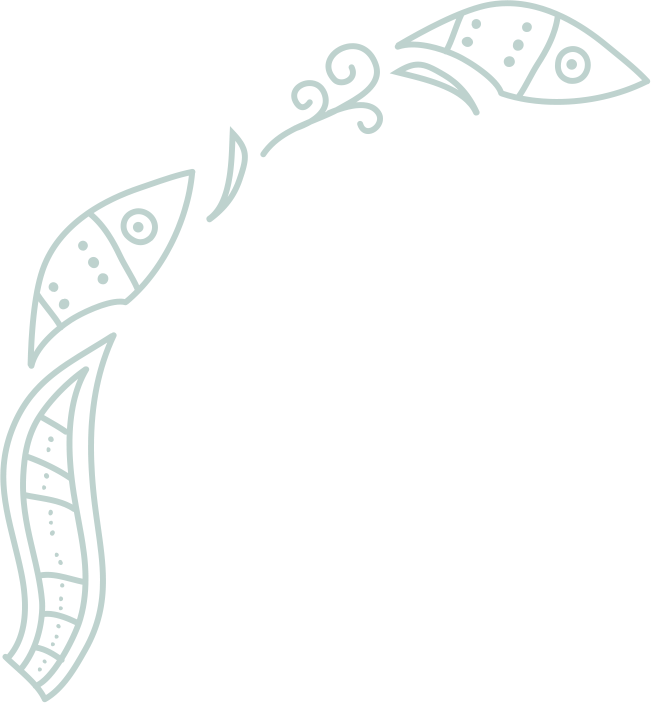
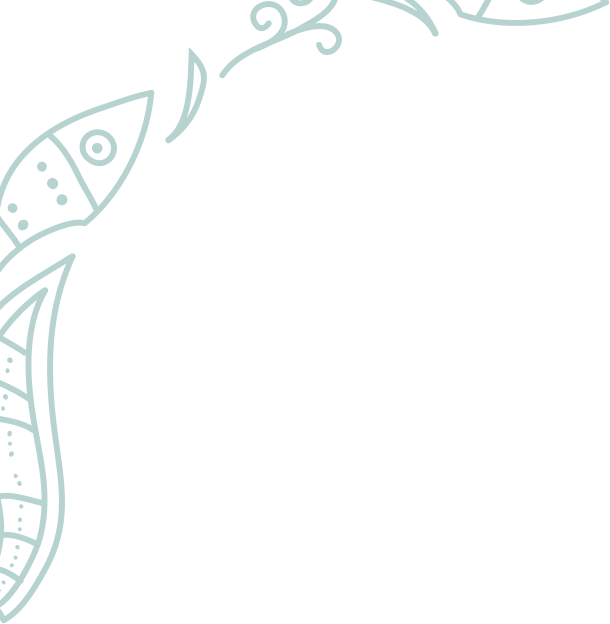
new commit

Changed region(s): [[0.0, 0.0, 1.0, 1.0]]

diff --git a/BT_WEB.html b/BT_WEB.html
@@ -28,9 +28,9 @@
                 
                 </div>
                 <div class="text-body">
-                    <center>Lorem ipsum dolor sit amet, consectetur adipiscing elit.
-                    <br>Donec fringilla neque euismod volutpat cursus.Vestibu
-                    <br>lumac pretium orci,</center> </div>
+                    <center>Lorem ipsum dolor sit amet, consectetur adip
+                     <br>   iscing elit. Donec fringilla neque euismod volut
+                  <br>  pat cursus.Vestibulumac pretium orci,</center> </div>
             
                 <div class="text-footer"><center>JOIN NOW</center></div>
                 <div class="image2">
@@ -69,7 +69,7 @@
             </div>
 
             <div class="page3">
-                    <!-- <div class="shape-page3"><img src="shape-page3.png"></div> -->
+                    <div class="shape-page3"><img src="img/shape-page3.png"></div>
                     <div class="text-title-page3">OUR STATS</div>
                     <div class="text-body-page3">    Lorem ipsum dolor sit amet, consectetur adipisc
                         <br> ing elit. Vivamus lacinia odio vitae vestibulum ves
@@ -103,6 +103,7 @@
                            <br>  odio vitae vestibulum vestibulum. </div>
                            <div class="button-page5">READ MORE</div>
                     </div>
+                     <div class="shape-page5"><!--<img src="img/Shape-Page5.png" alt="">--></div> 
             </div>
             <div class="page6">
                 <div id="text-title-page6">Pricing</div>
@@ -145,9 +146,65 @@
                    <br>  vitae vestibulum vestibulum. </div>
                    <div class="text-footer-page7">TRAINER DEVANDRA</div>
             </div>
+            <div class="page8">
+                <div class="text-title-page8">DONT MISS OUR UPDATE</div>
+                <div class="text-body-page8">Lorem ipsum dolor sit amet, consectetur adipisc
+                   <br> ing elit. Vivamus lacinia odio vitae vestibulum ves
+                   <br> tibulum. </div>
+                   <form action="">
+                       <input type="text" name="" placeholder="Your Email">
+                       <button>Subscribe</button>
+                   </form>
+            </div>
             </main>
             <footer>
+                <div class="page9">
+                    <div class="col1-page9">
+                        <div class="title-col-page9">TITLE HERE</div>
+                        <div class="body-col-page9">Lorem ipsum dolor sit amet, consecte
+                           <br> tur adipiscing elit. Aliquam at dignis
+                          <br> sim nunc, id maximus ex. Etiam nec
+                         <br>  dignissim elit, at dignissim enim. </div>
+                    </div>
 
+                    <div class="col2-page9">
+                        <div class="title-col-page9">FOLLOW</div>
+                        <div class="body-col-page9">
+                        <div >      
+                                    <img class="icon" src="img/icon-Facebook.png" width="25px"> 
+                            <br>    <img class="icon" src="img/icon-Instagram.png" width="25px">
+                            <br>    <img class="icon" src="img/icon-Twitter.png" width="25px">
+                            <br>    <img class="icon" src="img/icon-WhatsApp.png" width="25px">
+                        </div>
+                        <div class="text-icon" >
+                            <div class="text">Facebook</div>    
+                            <div class="text">Instagram</div>    
+                            <div class="text">Twitter</div>    
+                            <div class="text">WhatsApp</div>    
+                        </div>
+                </div>
+                    </div>
+                    <div class="col2-page9">
+                        <div class="title-col-page9">SERVICES</div>
+                        <div class="body-col-page9">
+                            How to Order
+                    <br>    Our Product
+                    <br>    Order Status
+                    <br>    Promo
+                    <br>    Payment Method 
+                </div>
+                    </div>
+                    <div class="col2-page9">
+                        <div class="title-col-page9">ABOUT</div>   
+                        <div class="body-col-page9">
+                                    History
+                            <br>    Our Team
+                            <br>    Brand Guidelines
+                            <br>    Terms & Condition
+                            <br>    Privacy Policy 
+                        </div>
+                    </div>
+                </div>
             </footer>
             
         </div>

diff --git a/BT_WEB.css b/BT_WEB.css
@@ -16,7 +16,7 @@
     src: url(font/Lato-Bold.ttf);
 } 
 .container{
-   border: 1px solid blue;
+   
    width: 1440;
    min-height: 8000px;
    margin: 0px auto;
@@ -114,7 +114,7 @@
     width: 480px;
     height: 65px;
     color: #6c9894;
-    font-size: 15px;
+    font-size: 20px;
     position: absolute;
     top: 470px;
     margin-left: 817px;
@@ -274,9 +274,6 @@
     background-size: 100% 100%;
     background-repeat: no-repeat;
 }
-.shape-page3{
-    margin-left: -20px;
-}
 .text-title-page3{
     font-family: font1;
     position: absolute;
@@ -380,7 +377,6 @@
     font-family: font1;
 }
 
-
 .page5{
     width: 100%;
     height: 975px;
@@ -419,6 +415,9 @@
     margin-top: 50px;
     font-size: 20px;
     font-family: font1;
+}
+.shape-page5{
+    float: right;
 }
 
 .page6{
@@ -530,4 +529,89 @@
     font-family: font1;
     color: #6c9894;
     font-size: 50px;
+}
+.page8{
+    width: 100%;
+    height: 645px;
+    background-color: #6c9894;
+}
+.text-title-page8{
+    text-align: center;
+    color: #ffffff;
+    font-size: 70px;
+    padding-top: 100px;
+    font-family: font1;
+}
+.text-body-page8{
+    text-align: center;
+    color: #ffffff;
+    font-size: 30px;
+    font-family: font2;
+}
+input{
+    width: 660px;
+    height: 65px;
+    border-radius: 50px;
+}
+::placeholder{
+    font-size: 25px;
+    
+    padding: 50px;
+    font-family: font2;
+}
+button{
+    font-family: font1;
+    font-size: 25px;
+    width: 260px;
+    height: 65px;
+    border-radius: 50px;
+    margin-left: -211px;
+    background-color: #f4f9f4;
+    color: #6c9894;
+    margin-top: 20px;
+}
+form{
+    text-align: center;
+    margin-top: 100px;
+}
+.page9{
+    width: 100%;
+    height: 50px;
+    background-color: #f4f9f4;
+}
+.col1-page9{
+    
+    height: 200px;
+    padding-left: 50px;
+    padding-top: 200px;
+}
+.title-col-page9{
+    font-size: 30px;
+    color: #6c9894;
+    font-family: font1;
+}
+.body-col-page9{
+    font-size: 25px;
+    color: #6c9894;
+    font-family: font2;
+}
+.col2-page9{
+    width: 200px;
+    height: 300px;
+    float: right;
+    margin-right: 65px;
+}
+.icon{
+    margin-bottom: 20px;
+}
+.text-icon{
+    width: 60%;
+    height: 100%;
+    float: right;
+    margin-top: -182px;
+    margin-right: 15px;
+}
+.text{
+    margin-bottom: 15px;
+    
 }
